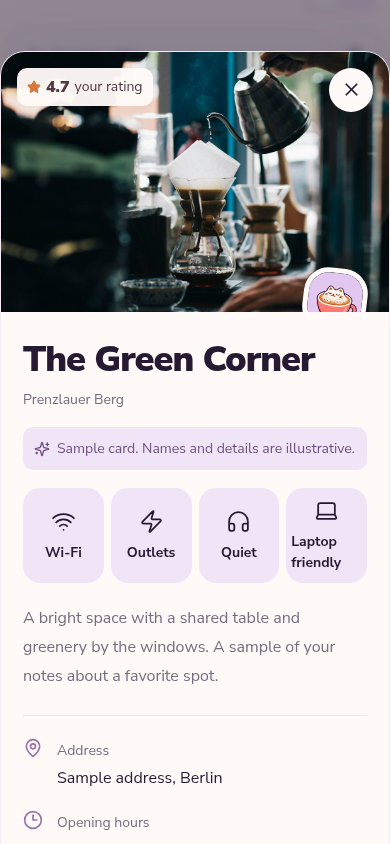
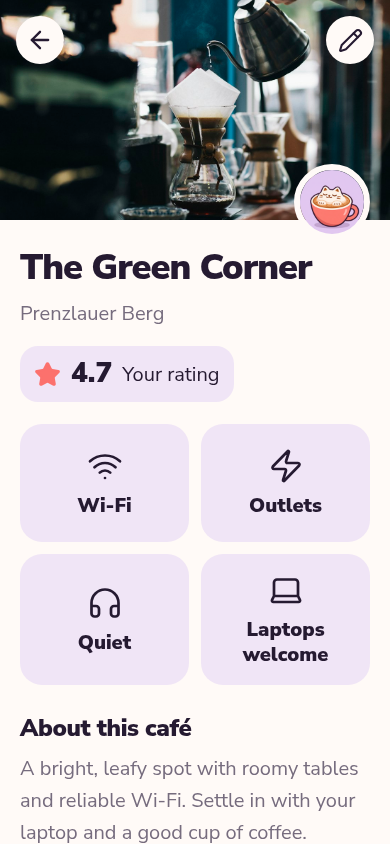
Apply approved cafe detail design with larger text and compact hours

diff --git a/src/index.css b/src/index.css
@@ -244,43 +244,47 @@ input[type=checkbox] { width: 19px; height: 19px; accent-color: #a067b9; flex-sh
 .hours-legacy>p { font-size: 1rem; color: var(--muted); line-height: 1.7; }
 .hours-legacy blockquote { margin: 10px 0; white-space: pre-line; font-size: 1rem; overflow-wrap: anywhere; }
 .hours-legacy .button { margin-top: 12px; }
-.detail-facts>div>div { min-width: 0; flex: 1; }
-.opening-hours-list { display: grid; gap: 9px; margin: 12px 0 0; color: var(--ink); font-size: 1rem; }
-.opening-hours-list>div { display: grid; grid-template-columns: 90px 1fr; gap: 14px; }
-.opening-hours-list dt { font-weight: 700; }
-.opening-hours-list dd { margin: 0; text-align: right; white-space: pre-line; }
-.opening-hours-list .hours-unspecified { color: var(--muted); }
-.detail-modal { max-width: 650px; display: flex; flex-direction: column; }
+/* Cafe details use the approved large-type, single-column layout. */
+.detail-modal { max-width: 720px; display: flex; flex-direction: column; }
 .detail-modal>* { flex-shrink: 0; }
-.detail-modal .modal-heading { order: 2; position: static; border: 0; padding-top: 25px; padding-bottom: 16px; }
-.detail-modal .modal-heading h2 { font-size: 2.25rem; letter-spacing: -1px; }
-.detail-modal .close-button { position: absolute; top: 16px; right: 16px; width: 44px; height: 44px; background: #fffaf7; box-shadow: 0 2px 12px #251a3120; }
+.detail-modal .modal-heading { order: 2; position: static; border: 0; padding: 28px 28px 22px; }
+.detail-modal .modal-heading h2 { font-size: 2.25rem; line-height: 1.12; letter-spacing: -1px; overflow-wrap: anywhere; }
+.detail-modal .modal-heading p { font-size: 1.25rem; margin-top: 10px; }
+.detail-modal .close-button, .detail-hero-edit { position: absolute; top: 16px; width: 48px; height: 48px; display: grid; place-items: center; border-radius: 50%; color: var(--ink); background: #fffaf7; box-shadow: 0 2px 12px #251a3120; }
+.detail-modal .close-button { left: 16px; right: auto; z-index: 5; }
+.detail-hero-edit { right: 16px; }
 .detail-hero { order: 0; height: 300px; position: relative; }
 .detail-hero>img { width: 100%; height: 100%; object-fit: cover; }
-.detail-hero .rating-badge { top: 16px; left: 16px; right: auto; }
-.detail-hero .rating-badge small { font-size: .875rem; font-weight: 400; }
-.detail-mascot { position: absolute; right: 22px; bottom: -20px; width: 72px; height: 72px; border: 5px solid #fffaf7; border-radius: 25px; overflow: hidden; transform: rotate(7deg); }
-.gallery-thumbs { order: 1; display: flex; gap: 7px; padding: 16px 25px 0; overflow: auto; }
+.detail-mascot { position: absolute; z-index: 5; right: 22px; bottom: -20px; width: 80px; height: 80px; border: 6px solid #fffaf7; border-radius: 50%; overflow: hidden; }
+.detail-rating { display: inline-flex; align-items: center; gap: 10px; flex-wrap: wrap; margin-top: 16px; padding: 9px 14px; border-radius: 18px; background: var(--lavender); font-size: 1.25rem; line-height: 1.35; }
+.detail-rating svg { color: var(--coral); flex-shrink: 0; }
+.detail-rating strong { font-size: 1.75rem; font-weight: 800; }
+.gallery-thumbs { order: 1; display: flex; gap: 8px; padding: 24px 28px 0; overflow: auto; }
 .gallery-thumbs button { border: 2px solid transparent; padding: 0; border-radius: 10px; overflow: hidden; flex-shrink: 0; background: transparent; }
 .gallery-thumbs button[aria-pressed=true] { border-color: #a067b9; }
-.gallery-thumbs img { width: 62px; height: 45px; object-fit: cover; }
-.detail-body { order: 3; padding: 0 27px 25px; }
-.detail-body>.features { gap: 10px; }
-.detail-body>.features span { display: flex; flex-direction: column; justify-content: center; gap: 8px; min-height: 75px; min-width: 80px; flex: 1; padding: 12px 8px; border-radius: 17px; font-size: 1rem; }
-.detail-body>.features svg { width: 25px; height: 25px; stroke-width: 1.7; }
-.detail-description { font-size: 1rem; line-height: 1.8; color: var(--muted); margin: 21px 0 25px; white-space: pre-line; overflow-wrap: anywhere; }
-.detail-facts { display: grid; gap: 20px; border-block: 1px solid var(--line); padding: 22px 0; }
-.detail-facts>div { display: flex; gap: 14px; color: #9874a9; }
-.detail-facts small { font-size: .875rem; color: var(--muted); }
-.detail-facts p { font-size: 1rem; color: var(--ink); margin-top: 4px; white-space: pre-line; overflow-wrap: anywhere; }
-.detail-amenities { padding: 24px 0; }
-.detail-amenities h3 { font-size: 1.125rem; font-weight: 800; margin-bottom: 12px; }
-.detail-amenities p { display: flex; justify-content: space-between; gap: 12px; font-size: 1rem; padding: 10px 0; color: var(--muted); }
-.available { display: flex; align-items: center; gap: 5px; color: #665075; }
-.unavailable { color: #817786; }
-.detail-links { display: flex; gap: 10px; }
-.detail-links>.button:first-child { flex: 1; }
-.detail-edit { display: flex; justify-content: space-between; border-top: 1px solid var(--line); margin-top: 24px; padding-top: 12px; }
+.gallery-thumbs img { width: 68px; height: 50px; object-fit: cover; }
+.detail-body { order: 3; padding: 0 28px 28px; }
+.detail-essentials { display: grid; grid-template-columns: repeat(2, minmax(0, 1fr)); gap: 12px; padding: 0; margin: 0; list-style: none; }
+.detail-amenity { display: flex; flex-direction: column; align-items: center; justify-content: center; gap: 9px; min-width: 0; min-height: 118px; padding: 18px 12px; background: var(--lavender); border-radius: 22px; text-align: center; }
+.detail-amenity svg { flex-shrink: 0; stroke-width: 1.8; }
+.detail-amenity>span { font-size: 1.25rem; font-weight: 800; line-height: 1.25; }
+.detail-amenity small { font-size: 1rem; line-height: 1.4; color: var(--muted); }
+.detail-amenity-unconfirmed { background: #f1edf1; }
+.detail-about { margin-top: 28px; }
+.detail-body h3 { font-size: 1.5rem; font-weight: 800; line-height: 1.25; letter-spacing: -.4px; }
+.detail-description { font-size: 1.25rem; line-height: 1.6; color: var(--muted); margin-top: 10px; white-space: pre-line; overflow-wrap: anywhere; }
+.detail-facts { margin-top: 24px; }
+.detail-facts>section { display: flex; gap: 14px; border-top: 1px solid var(--line); padding: 20px 0; }
+.detail-facts>section>svg { color: #9874a9; flex-shrink: 0; margin-top: 1px; }
+.detail-facts>section>div { min-width: 0; flex: 1; }
+.detail-facts p { font-size: 1.25rem; line-height: 1.5; color: var(--ink); margin-top: 7px; white-space: pre-line; overflow-wrap: anywhere; }
+.opening-hours-summary { max-width: 100%; margin-top: 7px; padding-bottom: 5px; overflow-x: auto; white-space: nowrap; font-size: 1.25rem; line-height: 1.5; scrollbar-width: thin; scrollbar-color: #a983bd transparent; }
+.detail-links { display: grid; gap: 10px; margin-top: 8px; }
+.detail-links .button { width: 100%; min-height: 56px; padding: 12px 18px; font-size: 1.25rem; font-weight: 800; gap: 12px; border-radius: 18px; }
+.detail-links .button-outline { border: 2px solid #9874a9; }
+.detail-edit { display: flex; flex-direction: column; align-items: center; gap: 2px; margin-top: 12px; }
+.detail-edit>.button:first-child { font-size: 1.375rem; font-weight: 800; }
+.detail-edit>.text-danger { font-size: 1rem; }
 .demo-notice { display: flex; gap: 7px; align-items: center; background: var(--lavender); padding: 11px; border-radius: 10px; font-size: .875rem; color: #705080; margin-bottom: 18px; }
 .confirm-body { padding: 24px 27px; }
 .confirm-body>p { font-size: 1rem; color: var(--muted); }
@@ -367,17 +371,13 @@ input[type=checkbox] { width: 19px; height: 19px; accent-color: #a067b9; flex-sh
   .form-actions { position: sticky; bottom: -22px; padding: 17px 0 20px; background: #fffaf7; z-index: 2; }
   .form-actions>.button { flex: 1; font-size: 1rem; }
   .filter-form .form-actions { position: static; }
-  .detail-hero { height: 260px; }
-  .detail-modal .modal-heading { padding-inline: 22px; }
-  .detail-modal .modal-heading h2 { font-size: 2.25rem; }
-  .detail-body { padding: 0 22px 24px; }
-  .detail-body>.features { gap: 7px; }
-  .detail-body>.features span { min-width: 65px; min-height: 79px; font-size: .875rem; padding: 10px 5px; }
-  .detail-description { font-size: 1rem; }
-  .detail-links { flex-wrap: wrap; }
-  .detail-links .button { font-size: 1rem; }
-  .detail-links>.button:first-child { min-width: 100%; }
-  .detail-mascot { width: 64px; height: 64px; }
+  .detail-modal { top: 0; bottom: 0; height: 100dvh; max-height: 100dvh; border: 0; border-radius: 0; }
+  .detail-hero { height: 220px; }
+  .detail-modal .close-button, .detail-hero-edit { top: max(16px, env(safe-area-inset-top)); }
+  .detail-modal .modal-heading { padding-inline: 20px; }
+  .detail-body { padding: 0 20px 24px; }
+  .gallery-thumbs { padding-inline: 20px; }
+  .detail-mascot { right: 20px; width: 76px; height: 76px; }
   .confirm-body { padding: 22px; }
   .toast { font-size: 1rem; width: max-content; }
 }

diff --git a/src/App.tsx b/src/App.tsx
@@ -1,5 +1,5 @@
 import { lazy, Suspense, useCallback, useEffect, useMemo, useState } from 'react'
-import { ArrowDownWideNarrow, ArrowUpRight, Check, Coffee, Download, ExternalLink, Grid2X2, Headphones, Laptop, LoaderCircle, Map, MapPin, Pencil, Plus, RefreshCw, Search, SlidersHorizontal, Sparkles, Star, Trash2, Wifi, WifiOff, X, Zap, Clock3 } from 'lucide-react'
+import { ArrowDownWideNarrow, ArrowLeft, ArrowUpRight, Check, Coffee, Download, ExternalLink, Grid2X2, Headphones, Laptop, LoaderCircle, Map, MapPin, Navigation, Pencil, Plus, RefreshCw, Search, SlidersHorizontal, Sparkles, Star, Trash2, Wifi, WifiOff, X, Zap, Clock3 } from 'lucide-react'
 import { registerSW } from 'virtual:pwa-register'
 import { Capacitor } from '@capacitor/core'
 import type { Cafe } from './types/cafe'
@@ -41,14 +41,36 @@ function CafeCard({ cafe, onClick }: { cafe: Cafe; onClick: () => void }) {
 function CafeDetails({ cafe, demo, onClose, onEdit, onDelete }: { cafe: Cafe; demo: boolean; onClose: () => void; onEdit: () => void; onDelete: () => void }) {
   const [photo, setPhoto] = useState(0)
   const mapUrl = `https://www.google.com/maps/dir/?api=1&destination=${cafe.lat},${cafe.lng}`
-  return <Modal open onOpenChange={o => !o && onClose()} title={cafe.name} description={cafe.district} className="detail-modal">
-    <div className="detail-hero">{photo === 0 ? <Photo cafe={cafe} /> : <img src={cafe.photos[photo]} alt={`Photo ${cafe.name}, ${photo+1}`} />}<span className="rating-badge"><Star size={14} fill="currentColor" />{formatRating(cafe.rating)} <small>your rating</small></span><span className="detail-mascot"><CatMark /></span></div>
+  const amenities = [
+    { label: 'Wi-Fi', icon: Wifi, available: cafe.wifi },
+    { label: 'Outlets', icon: Zap, available: cafe.sockets },
+    { label: cafe.noise === 'quiet' ? 'Quiet' : 'Atmosphere', icon: Headphones, available: true, detail: cafe.noise === 'quiet' ? '' : noiseLabels[cafe.noise] },
+    { label: 'Laptops welcome', icon: Laptop, available: cafe.laptop_friendly },
+  ]
+  return <Modal open onOpenChange={o => !o && onClose()} title={cafe.name} description={cafe.district} className="detail-modal" closeIcon={<ArrowLeft size={28} />} headingContent={
+    <div className="detail-rating"><Star size={27} fill="currentColor" aria-hidden="true" /><strong>{formatRating(cafe.rating)}</strong><span>Your rating</span></div>
+  }>
+    <div className="detail-hero">
+      {photo === 0 ? <Photo cafe={cafe} /> : <img src={cafe.photos[photo]} alt={`Photo ${cafe.name}, ${photo+1}`} />}
+      {!demo && <button className="detail-hero-edit" onClick={onEdit} aria-label="Edit cafe details"><Pencil size={25} /></button>}
+      <span className="detail-mascot"><CatMark /></span>
+    </div>
     {cafe.photos.length > 1 && <div className="gallery-thumbs">{cafe.photos.map((url,i) => <button key={url} onClick={() => setPhoto(i)} aria-label={`Show photo ${i+1}`} aria-pressed={photo === i}><img src={url} alt="" /></button>)}</div>}
-    <div className="detail-body">{demo && <div className="demo-notice"><Sparkles size={16} /> Sample card. Names and details are illustrative.</div>}<Features cafe={cafe} /><p className="detail-description">{cafe.description || 'No description yet.'}</p>
-      <div className="detail-facts"><div><MapPin size={20} /><div><small>Address</small><p>{cafe.address}</p></div></div><div><Clock3 size={20} /><div><small>Opening hours</small><OpeningHours value={cafe.hours} /></div></div><div><Headphones size={20} /><div><small>Atmosphere</small><p>{noiseLabels[cafe.noise]}</p></div></div></div>
-      <div className="detail-amenities"><h3>Work essentials</h3>{[[cafe.wifi,'Wi-Fi'],[cafe.sockets,'Outlets'],[cafe.laptop_friendly,'Laptops welcome']].map(([yes,label]) => <p key={String(label)}><span>{label}</span><span className={yes ? 'available' : 'unavailable'}>{yes ? <><Check size={16} /> Available</> : 'No / not confirmed'}</span></p>)}</div>
-      {!demo && <div className="detail-links"><Button asChild><a href={mapUrl} target="_blank" rel="noreferrer"><MapPin size={17} />Get directions<ArrowUpRight size={15} /></a></Button>{/^https?:\/\//i.test(cafe.website) && <Button variant="outline" asChild><a href={cafe.website} target="_blank" rel="noreferrer">Cafe website<ExternalLink size={15} /></a></Button>}</div>}
-      {!demo && <div className="detail-edit"><Button variant="ghost" onClick={onEdit}><Pencil size={16} />Edit</Button><Button variant="ghost" className="text-danger" onClick={onDelete}><Trash2 size={16} />Delete</Button></div>}
+    <div className="detail-body">
+      {demo && <div className="demo-notice"><Sparkles size={16} /> Sample card. Names and details are illustrative.</div>}
+      <ul className="detail-essentials" aria-label="Work essentials">{amenities.map(({ label, icon: Icon, available, detail }) =>
+        <li key={label} className={`detail-amenity${available ? '' : ' detail-amenity-unconfirmed'}`}>
+          <Icon size={36} aria-hidden="true" /><span>{label}</span>
+          {(!available || detail) && <small>{available ? detail : 'No / not confirmed'}</small>}
+        </li>
+      )}</ul>
+      <section className="detail-about"><h3>About this café</h3><p className="detail-description">{cafe.description || 'No description yet.'}</p></section>
+      <div className="detail-facts">
+        <section><MapPin size={28} aria-hidden="true" /><div><h3>Address</h3><p>{cafe.address}</p></div></section>
+        <section><Clock3 size={28} aria-hidden="true" /><div><h3>Opening hours</h3><OpeningHours value={cafe.hours} /></div></section>
+      </div>
+      {!demo && <div className="detail-links"><Button asChild><a href={mapUrl} target="_blank" rel="noreferrer"><Navigation size={25} />Get directions</a></Button>{/^https?:\/\//i.test(cafe.website) && <Button variant="outline" asChild><a href={cafe.website} target="_blank" rel="noreferrer"><ExternalLink size={24} />Visit website</a></Button>}</div>}
+      {!demo && <div className="detail-edit"><Button variant="ghost" onClick={onEdit}>Edit café</Button><Button variant="ghost" className="text-danger" onClick={onDelete}><Trash2 size={18} />Delete</Button></div>}
     </div>
   </Modal>
 }

diff --git a/tests/catalog.spec.ts b/tests/catalog.spec.ts
@@ -74,6 +74,40 @@ async function setRange(page: Page, selector: string, value: string) {
   }, value)
 }
 
+test('cafe details preserve amenities, complete hours, gallery and editing in the large-text layout', async ({ page }) => {
+  const photos = ['one', 'two'].map(name => `https://ui-test.supabase.co/storage/v1/object/public/cafe-photos/${name}.jpg`)
+  await mockBackend(page, [fixture(initialCafes[0].id, 'Detail Cafe', 'Mitte', 4.7, {
+    wifi: false, laptop_friendly: false, noise: 'lively', photos,
+    hours: 'Mon–Fri 09:00–18:00\nSat 10:00–16:00\nSun Closed',
+  })])
+  await page.goto('/')
+  await page.getByRole('button', { name: 'Open Detail Cafe', exact: true }).click()
+  const dialog = page.getByRole('dialog')
+  const amenities = dialog.getByRole('list', { name: 'Work essentials' })
+  await expect(amenities.getByRole('listitem')).toHaveCount(4)
+  await expect(amenities.getByText('No / not confirmed', { exact: true })).toHaveCount(2)
+  await expect(amenities).toContainText('Lively')
+  await expect(amenities.getByText('Quiet', { exact: true })).toHaveCount(0)
+  await expect(dialog.locator('.detail-rating')).toHaveText('4.7Your rating')
+  await expect(dialog.getByRole('heading', { name: 'About this café' })).toBeVisible()
+  await expect(dialog.locator('.detail-description')).toHaveCSS('font-size', '20px')
+  const hours = dialog.getByRole('region', { name: 'Opening hours schedule' })
+  await expect(hours).toHaveText('Mon–Fri 09:00–18:00 · Sat 10:00–16:00 · Sun Closed')
+  await expect(hours).toHaveCSS('white-space', 'nowrap')
+  await hours.focus()
+  await page.keyboard.press('End')
+  await expect(dialog.getByRole('link', { name: 'Visit website' })).toHaveAttribute('href', 'https://example.com')
+  await expect(dialog.getByRole('link', { name: 'Get directions' })).toHaveAttribute('href', /destination=52.52,13.405/)
+  await dialog.getByRole('button', { name: 'Show photo 2', exact: true }).click()
+  await expect(dialog.getByRole('button', { name: 'Show photo 2', exact: true })).toHaveAttribute('aria-pressed', 'true')
+  await expect(dialog.locator('.detail-hero>img')).toHaveAttribute('src', photos[1])
+  expect(await dialog.evaluate(el => el.scrollWidth <= el.clientWidth)).toBe(true)
+  await dialog.getByRole('button', { name: 'Edit cafe details', exact: true }).click()
+  await expect(page.getByLabel('Name', { exact: false })).toHaveValue('Detail Cafe')
+  await expect(page.getByLabel('Sunday hours', { exact: true })).toHaveValue('closed')
+  await expect(page.getByRole('button', { name: /Remove photo/ })).toHaveCount(2)
+})
+
 for (const mode of ['search, filters and sorting', 'map and card', 'create edit delete and photos', 'offline cache'] as const) {
   test(mode, async ({ page }, testInfo) => {
     const backend = await mockBackend(page)
@@ -115,7 +149,7 @@ for (const mode of ['search, filters and sorting', 'map and card', 'create edit 
       await page.locator('.cafe-marker[title="Alpha Coffee"]').click()
       const detail = page.getByRole('dialog')
       await expect(detail.getByRole('heading', { name: 'Alpha Coffee', exact: true })).toBeVisible()
-      await expect(detail.getByRole('button', { name: 'Edit', exact: true })).toBeVisible()
+      await expect(detail.getByRole('button', { name: 'Edit café', exact: true })).toBeVisible()
       await expect(detail.getByRole('link', { name: /Get directions/ })).toHaveAttribute('href', /destination=52.52,13.405/)
       await expect(detail.getByRole('button', { name: /Sign in|Sign up/ })).toHaveCount(0)
       await page.screenshot({ path: `test-results/detail-${testInfo.project.name}.png`, animations: 'disabled' })
@@ -140,7 +174,7 @@ for (const mode of ['search, filters and sorting', 'map and card', 'create edit 
       expect(create.body.rating).toBe(4.3)
       expect(create.body.photos).toHaveLength(1)
       await page.getByRole('button', { name: 'Open Delta Work Cafe', exact: true }).click()
-      await page.getByRole('button', { name: 'Edit', exact: true }).click()
+      await page.getByRole('button', { name: 'Edit café', exact: true }).click()
       await page.getByLabel('Name', { exact: false }).fill('Delta Updated')
       await page.getByRole('button', { name: 'Remove photo 1' }).click()
       await page.getByRole('button', { name: 'Save changes' }).click()
@@ -179,7 +213,7 @@ test('empty catalog and explicit demo do not write to backend', async ({ page })
   await expect(page.locator('.demo-banner')).toContainText('Demo')
   await page.locator('.cafe-card').first().click()
   await expect(page.getByRole('dialog')).toContainText('Names and details are illustrative')
-  await expect(page.getByRole('button', { name: 'Edit', exact: true })).toHaveCount(0)
+  await expect(page.getByRole('button', { name: 'Edit café', exact: true })).toHaveCount(0)
   expect(backend.writes).toEqual([])
 })
 

diff --git a/src/components/ui/dialog.tsx b/src/components/ui/dialog.tsx
@@ -2,11 +2,11 @@ import * as DialogPrimitive from '@radix-ui/react-dialog'
 import { X } from 'lucide-react'
 import type { ReactNode } from 'react'
 
-export function Modal({ open, onOpenChange, title, description, children, className = '' }: { open: boolean; onOpenChange: (open: boolean) => void; title: string; description?: string; children: ReactNode; className?: string }) {
+export function Modal({ open, onOpenChange, title, description, children, className = '', closeIcon, headingContent }: { open: boolean; onOpenChange: (open: boolean) => void; title: string; description?: string; children: ReactNode; className?: string; closeIcon?: ReactNode; headingContent?: ReactNode }) {
   return <DialogPrimitive.Root open={open} onOpenChange={onOpenChange}><DialogPrimitive.Portal>
     <DialogPrimitive.Overlay className="modal-overlay" />
     <DialogPrimitive.Content className={`modal ${className}`}>
-      <div className="modal-heading"><div><DialogPrimitive.Title>{title}</DialogPrimitive.Title>{description && <DialogPrimitive.Description>{description}</DialogPrimitive.Description>}</div><DialogPrimitive.Close className="close-button" aria-label="Close"><X size={21} /></DialogPrimitive.Close></div>
+      <div className="modal-heading"><div><DialogPrimitive.Title>{title}</DialogPrimitive.Title>{description && <DialogPrimitive.Description>{description}</DialogPrimitive.Description>}{headingContent}</div><DialogPrimitive.Close className="close-button" aria-label="Close">{closeIcon ?? <X size={21} />}</DialogPrimitive.Close></div>
       {!description && <DialogPrimitive.Description className="sr-only">{title}</DialogPrimitive.Description>}
       {children}
     </DialogPrimitive.Content>

diff --git a/tests/opening-hours.spec.ts b/tests/opening-hours.spec.ts
@@ -67,7 +67,7 @@ async function backend(page: Page, hours = '') {
 
 async function edit(page: Page) {
   await page.getByRole('button', { name: 'Open Schedule Cafe', exact: true }).click()
-  await page.getByRole('button', { name: 'Edit', exact: true }).click()
+  await page.getByRole('button', { name: 'Edit café', exact: true }).click()
 }
 
 async function time(page: Page, label: string, value: string) {
@@ -96,11 +96,10 @@ test('creates uniform weekly hours using only lists, then reloads and edits them
   expect(writes[0].hours).toBe('Mon–Fri 09:00–18:30\nSat 10:15–16:00\nSun Closed')
   await page.reload()
   await page.getByRole('button', { name: 'Open Weekly Cafe', exact: true }).click()
-  const schedule = page.getByRole('dialog').getByLabel('Weekly opening hours')
-  await expect(schedule).toContainText('Monday')
-  await expect(schedule).toContainText('09:00–18:30')
-  await expect(schedule).toContainText('Closed')
-  await page.getByRole('button', { name: 'Edit', exact: true }).click()
+  const schedule = page.getByRole('dialog').getByRole('region', { name: 'Opening hours schedule' })
+  await expect(schedule).toHaveText('Mon–Fri 09:00–18:30 · Sat 10:15–16:00 · Sun Closed')
+  await expect(schedule).toHaveCSS('white-space', 'nowrap')
+  await page.getByRole('button', { name: 'Edit café', exact: true }).click()
   await expect(page.getByLabel('Friday period 1 closes minute')).toHaveValue('30')
   await expect(page.getByLabel('Saturday period 1 opens minute')).toHaveValue('15')
   await expect(page.getByLabel('Sunday hours', { exact: true })).toHaveValue('closed')

diff --git a/src/components/OpeningHours.tsx b/src/components/OpeningHours.tsx
@@ -1,8 +1,9 @@
-import { formatDayHours, parseOpeningHours, weekDays } from '../lib/opening-hours'
+import { parseOpeningHours, serializeOpeningHours } from '../lib/opening-hours'
 
 export default function OpeningHours({ value }: { value: string }) {
   const week = parseOpeningHours(value)
-  if (!value.trim()) return <p>Not added yet</p>
-  if (!week) return <p className="legacy-hours-display">{value}</p>
-  return <dl className="opening-hours-list" aria-label="Weekly opening hours">{weekDays.map((day, index) => <div key={day.short} className={week[index].status === 'unknown' ? 'hours-unspecified' : ''}><dt>{day.name}</dt><dd>{formatDayHours(week[index]).replaceAll(', ', '\n')}</dd></div>)}</dl>
+  const summary = (week ? serializeOpeningHours(week) : value.trim()).replace(/\r?\n/g, ' · ') || 'Not added yet'
+  // Keep every saved period readable on one line, including weekends and legacy text.
+  // Keyboard users can focus and horizontally scroll a long schedule.
+  return <div className="opening-hours-summary" role="region" aria-label="Opening hours schedule" tabIndex={0} title={summary}>{summary}</div>
 }

diff --git a/docs/VERIFICATION.md b/docs/VERIFICATION.md
@@ -1,4 +1,28 @@
-# Cappuccino-cat icon verification
+# Cafe detail design verification
+
+- Implemented the approved design with a full-screen mobile detail view, 36 px
+  cafe title, 20 px body text and amenity labels, and 24 px section headings.
+- Personal rating appears below the district. Four large amenity tiles preserve
+  unknown availability and the actual atmosphere; a lively cafe is not labelled quiet.
+- Opening hours remain on one line with consecutive identical days grouped.
+  Complete schedules, including weekends and overnight periods, scroll horizontally
+  and support keyboard focus. Editing and stored hours are unchanged.
+- Gallery selection, both edit controls, deletion, directions and website links
+  remain functional. Sample cards remain read-only.
+- All 56 Playwright tests passed across mobile and desktop, including CRUD, photos,
+  hours selectors, address search and offline cache. TypeScript and the production
+  web/PWA build passed. Backend requests in automated tests were intercepted.
+- Screenshots use illustrative fixture data and local photos, without changing
+  production records. Checked widths of 320, 390 and 1440 px with no horizontal
+  overflow or browser runtime errors.
+- No APK was built. The existing Android 1.0.3 APK checksum is unchanged.
+
+Screenshots: [mobile](screenshots/mobile-details.png),
+[complete mobile page](screenshots/cafe-details-full.png),
+[desktop](screenshots/desktop-details.png),
+[320 px screen](screenshots/small-details.png).
+
+## Cappuccino-cat icon verification
 
 - The master PNG is byte-for-byte identical to the selected design: no steam,
   handle on the right, and the original lavender/coral styling.

diff --git a/docs/OPENING_HOURS.md b/docs/OPENING_HOURS.md
@@ -28,8 +28,12 @@ Sun Closed
 ```
 
 This keeps saved schedules readable by older app versions and tools. The current
-app shows a weekly table, including unspecified days. Both regular data and the
-offline catalog cache use the same representation.
+app shows a single-line summary, grouping consecutive days with the same hours
+and separating groups with a middle dot. Long schedules scroll horizontally
+(with keyboard focus available) so weekends, split shifts and overnight periods
+remain accessible at the larger font size. Unspecified days are not represented
+as closed. Both regular data and the offline catalog cache use the same storage
+representation.
 
 Existing unambiguous English schedules such as `Daily 08:00–20:00` and
 `Mon–Fri 09:00–18:00, Sat–Sun 10:00–17:00` can be edited with the selectors.
